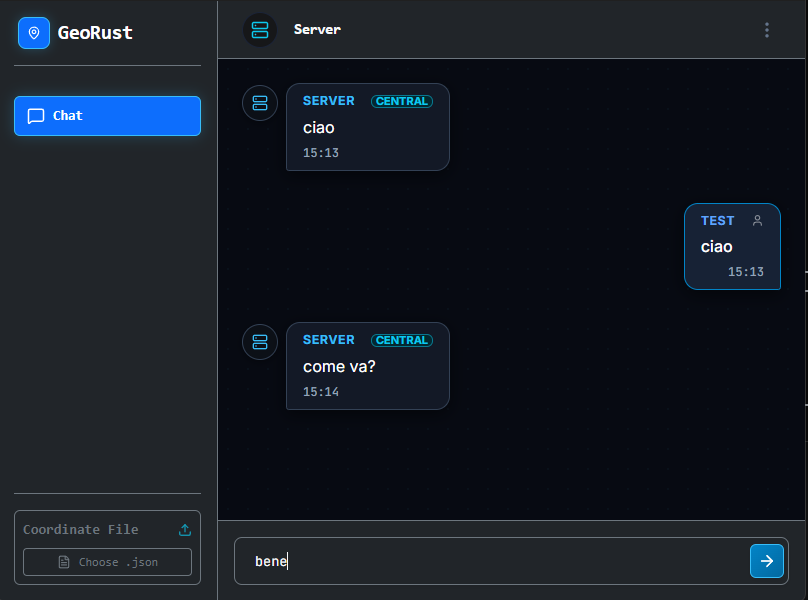
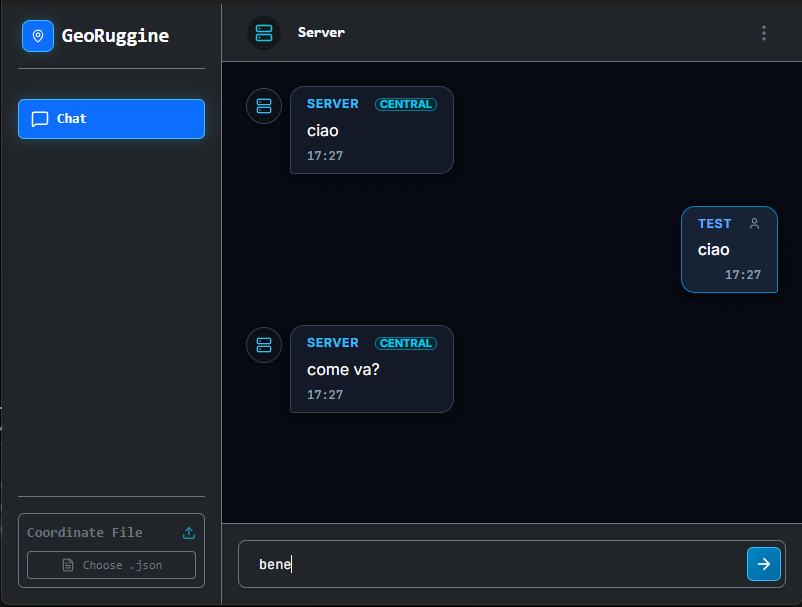
update terminology from "Sign out" to "Logout" and correct brand name to "GeoRuggine"; add new images and enhance user manual with coordinate upload steps

diff --git a/georuggine-client/src/components/chat/ChatHeader.test.tsx b/georuggine-client/src/components/chat/ChatHeader.test.tsx
@@ -9,7 +9,7 @@ describe("ChatHeader", () => {
 
     expect(screen.getByText("Server")).toBeInTheDocument();
     expect(screen.queryByText("alice")).not.toBeInTheDocument();
-    expect(screen.queryByText("Sign out")).not.toBeInTheDocument();
+    expect(screen.queryByText("Logout")).not.toBeInTheDocument();
   });
 
   it("opens the options menu with the username and actions", async () => {
@@ -26,7 +26,7 @@ describe("ChatHeader", () => {
 
     expect(screen.getByText("alice")).toBeInTheDocument();
     expect(screen.getByText("Clear chat")).toBeInTheDocument();
-    expect(screen.getByText("Sign out")).toBeInTheDocument();
+    expect(screen.getByText("Logout")).toBeInTheDocument();
   });
 
   it("calls onClearChat and closes the menu", async () => {
@@ -49,10 +49,10 @@ describe("ChatHeader", () => {
     render(<ChatHeader currentUser={{ username: "alice" }} onLogout={onLogout} />);
 
     await user.click(screen.getByTitle("Options"));
-    await user.click(screen.getByText("Sign out"));
+    await user.click(screen.getByText("Logout"));
 
     expect(onLogout).toHaveBeenCalledTimes(1);
-    expect(screen.queryByText("Sign out")).not.toBeInTheDocument();
+    expect(screen.queryByText("Logout")).not.toBeInTheDocument();
   });
 
   it("does not render the clear action when no handler is provided", async () => {
@@ -71,13 +71,13 @@ describe("ChatHeader", () => {
     );
 
     await user.click(screen.getByTitle("Options"));
-    expect(screen.getByText("Sign out")).toBeInTheDocument();
+    expect(screen.getByText("Logout")).toBeInTheDocument();
 
     const backdrop = container.querySelector(".dropdown-backdrop");
     expect(backdrop).not.toBeNull();
     await user.click(backdrop!);
 
-    expect(screen.queryByText("Sign out")).not.toBeInTheDocument();
+    expect(screen.queryByText("Logout")).not.toBeInTheDocument();
   });
 
   it("toggles the menu closed when options is clicked again", async () => {
@@ -85,10 +85,10 @@ describe("ChatHeader", () => {
     render(<ChatHeader currentUser={{ username: "alice" }} onLogout={vi.fn()} />);
 
     await user.click(screen.getByTitle("Options"));
-    expect(screen.getByText("Sign out")).toBeInTheDocument();
+    expect(screen.getByText("Logout")).toBeInTheDocument();
 
     await user.click(screen.getByTitle("Options"));
-    expect(screen.queryByText("Sign out")).not.toBeInTheDocument();
+    expect(screen.queryByText("Logout")).not.toBeInTheDocument();
   });
 
   it("hides the username entry when there is no current user", async () => {
@@ -98,6 +98,6 @@ describe("ChatHeader", () => {
     await user.click(screen.getByTitle("Options"));
 
     expect(screen.queryByText("alice")).not.toBeInTheDocument();
-    expect(screen.getByText("Sign out")).toBeInTheDocument();
+    expect(screen.getByText("Logout")).toBeInTheDocument();
   });
 });

diff --git a/georuggine-client/src/App.test.tsx b/georuggine-client/src/App.test.tsx
@@ -265,7 +265,7 @@ describe("App chat flow", () => {
     await waitFor(() => expect(chatHandler).toBeDefined());
 
     await user.click(screen.getByTitle("Options"));
-    await user.click(screen.getByText("Sign out"));
+    await user.click(screen.getByText("Logout"));
 
     await waitFor(() => expect(apiLogout).toHaveBeenCalledTimes(1));
     expect(screen.getByText("Sign in to your account")).toBeInTheDocument();

diff --git a/georuggine-client/index.html b/georuggine-client/index.html
@@ -4,7 +4,7 @@
     <meta charset="UTF-8" />
     <link rel="icon" type="image/svg+xml" href="/vite.svg" />
     <meta name="viewport" content="width=device-width, initial-scale=1.0" />
-    <title>GeoRust</title>
+    <title>GeoRuggine</title>
     <link rel="preconnect" href="https://fonts.googleapis.com" />
     <link rel="preconnect" href="https://fonts.gstatic.com" crossorigin />
     <link

diff --git a/georuggine-client/src/integration/ipc.integration.test.tsx b/georuggine-client/src/integration/ipc.integration.test.tsx
@@ -275,7 +275,7 @@ describe("frontend <-> backend IPC integration", () => {
     await registerAndLogin(user);
 
     await user.click(screen.getByTitle("Options"));
-    await user.click(screen.getByText("Sign out"));
+    await user.click(screen.getByText("Logout"));
 
     await waitFor(() => expect(backend.session).toBeNull());
     expect(backend.connected).toBe(false);

diff --git a/georuggine-client/src/components/auth/AuthLayout.test.tsx b/georuggine-client/src/components/auth/AuthLayout.test.tsx
@@ -10,7 +10,7 @@ describe("AuthLayout", () => {
       </AuthLayout>,
     );
 
-    expect(screen.getByText("GeoRust")).toBeInTheDocument();
+    expect(screen.getByText("GeoRuggine")).toBeInTheDocument();
     expect(screen.getByText("Track. Communicate. Analyze.")).toBeInTheDocument();
     expect(screen.getByText("auth form")).toBeInTheDocument();
   });

diff --git a/georuggine-client/src/components/chat/ChatSidebar.tsx b/georuggine-client/src/components/chat/ChatSidebar.tsx
@@ -27,7 +27,7 @@ export const ChatSidebar: React.FC<ChatSidebarProps> = ({
           <MapPin size={20} className="text-white sidebar-brand-icon" />
         </div>
         <span className="fs-5 fw-bold font-monospace text-white sidebar-brand-name">
-          GeoRust
+          GeoRuggine
         </span>
       </div>
 

diff --git a/georuggine-client/src/components/chat/ChatView.test.tsx b/georuggine-client/src/components/chat/ChatView.test.tsx
@@ -71,7 +71,7 @@ describe("ChatView", () => {
     const { onLogout, user } = setup();
 
     await user.click(screen.getByTitle("Options"));
-    await user.click(screen.getByText("Sign out"));
+    await user.click(screen.getByText("Logout"));
 
     expect(onLogout).toHaveBeenCalledTimes(1);
   });

diff --git a/georuggine-client/src/components/chat/ChatHeader.tsx b/georuggine-client/src/components/chat/ChatHeader.tsx
@@ -76,7 +76,7 @@ export const ChatHeader: React.FC<ChatHeaderProps> = ({
                   }}
                 >
                   <LogOut size={14} />
-                  <span>Sign out</span>
+                  <span>Logout</span>
                 </button>
               </li>
             </ul>

diff --git a/georuggine-client/docs/user-manual.md b/georuggine-client/docs/user-manual.md
@@ -99,14 +99,10 @@ appear in the chat.
 
 The coordinate upload feature lets you share a route with the server.
 
-1. Prepare a JSON file containing an ordered list of positions.
-2. Select **Coordinate File**.
-3. Choose the JSON file.
-4. Confirm the upload.
+### Step 1: Prepare the coordinate file
 
-The client sends one position every 30 seconds while the route is active.
-
-The accepted canonical format is:
+Create a JSON file containing an ordered list of positions. The accepted
+canonical format is:
 
 ```json
 [
@@ -125,6 +121,9 @@ The aliases `lat` and `lon` are also accepted:
 ]
 ```
 
+The client sends the first position immediately and then sends one position
+every 30 seconds while the route is active.
+
 The coordinate file must:
 
 - use the `.json` extension;
@@ -133,11 +132,36 @@ The coordinate file must:
 - contain numeric coordinates;
 - be uploaded while you are connected.
 
-Uploading a new file replaces the route currently being sent. Route sending
-stops automatically when all positions have been sent, when you log out or
-when you close the application.
+### Step 2: Choose the JSON file
+
+In the **Coordinate File** panel, select **Choose .json**. This opens the file
+picker, which only accepts files with the `.json` extension.
 
 ![Coordinate file upload control.](./images/coordinate.png)
+
+### Step 3: Confirm the selected file
+
+Select the route file in the file picker. The panel then displays the selected
+filename and its size. Check that the correct file is shown before starting
+the upload.
+
+![Selected coordinate file.](./images/coordinateUploaded.png)
+
+### Step 4: Upload the coordinates
+
+Select **Upload coordinates**. The client reads the file, validates it and
+starts sending the route through the active connection. The upload button is
+temporarily disabled while the operation is in progress.
+
+When the operation starts successfully, the panel displays **File uploaded
+successfully!**.
+
+![Coordinate file uploaded successfully.](./images/coordinateUploaded2.png)
+
+The client continues sending the remaining positions every 30 seconds until
+the file is finished. Uploading a new file replaces the route currently being
+sent. Route sending stops automatically when all positions have been sent,
+when you log out or when you close the application.
 
 ## Logging Out
 

diff --git a/georuggine-client/docs/technical-manual.md b/georuggine-client/docs/technical-manual.md
@@ -62,7 +62,7 @@ src/
 `ChatView` renders the message list and scrolls to the end when messages
 change. `ChatInput` trims messages, rejects empty input, sends on plain Enter
 and restores the input when sending fails. `ChatHeader` exposes Clear chat and
-Sign out. `ChatSidebar` exposes the chat tab and coordinate uploader.
+Logout. `ChatSidebar` exposes the chat tab and coordinate uploader.
 
 #### State management
 
@@ -445,7 +445,7 @@ sequenceDiagram
 
 #### Logout
 
-**Logout trigger:** the user selects Sign out.
+**Logout trigger:** the user selects Logout.
 
 Rust calls `disconnect_ws`, which aborts tracking, transmission and reception,
 drops the WebSocket sender and then clears the session. React clears messages,
@@ -458,7 +458,7 @@ sequenceDiagram
     participant Rust
     participant Server
 
-    User->>React: Select Sign out
+    User->>React: Select Logout
     React->>Rust: invoke("logout")
     Rust->>Server: Close WebSocket
     Rust->>Rust: Drop ws_tx and clear session
